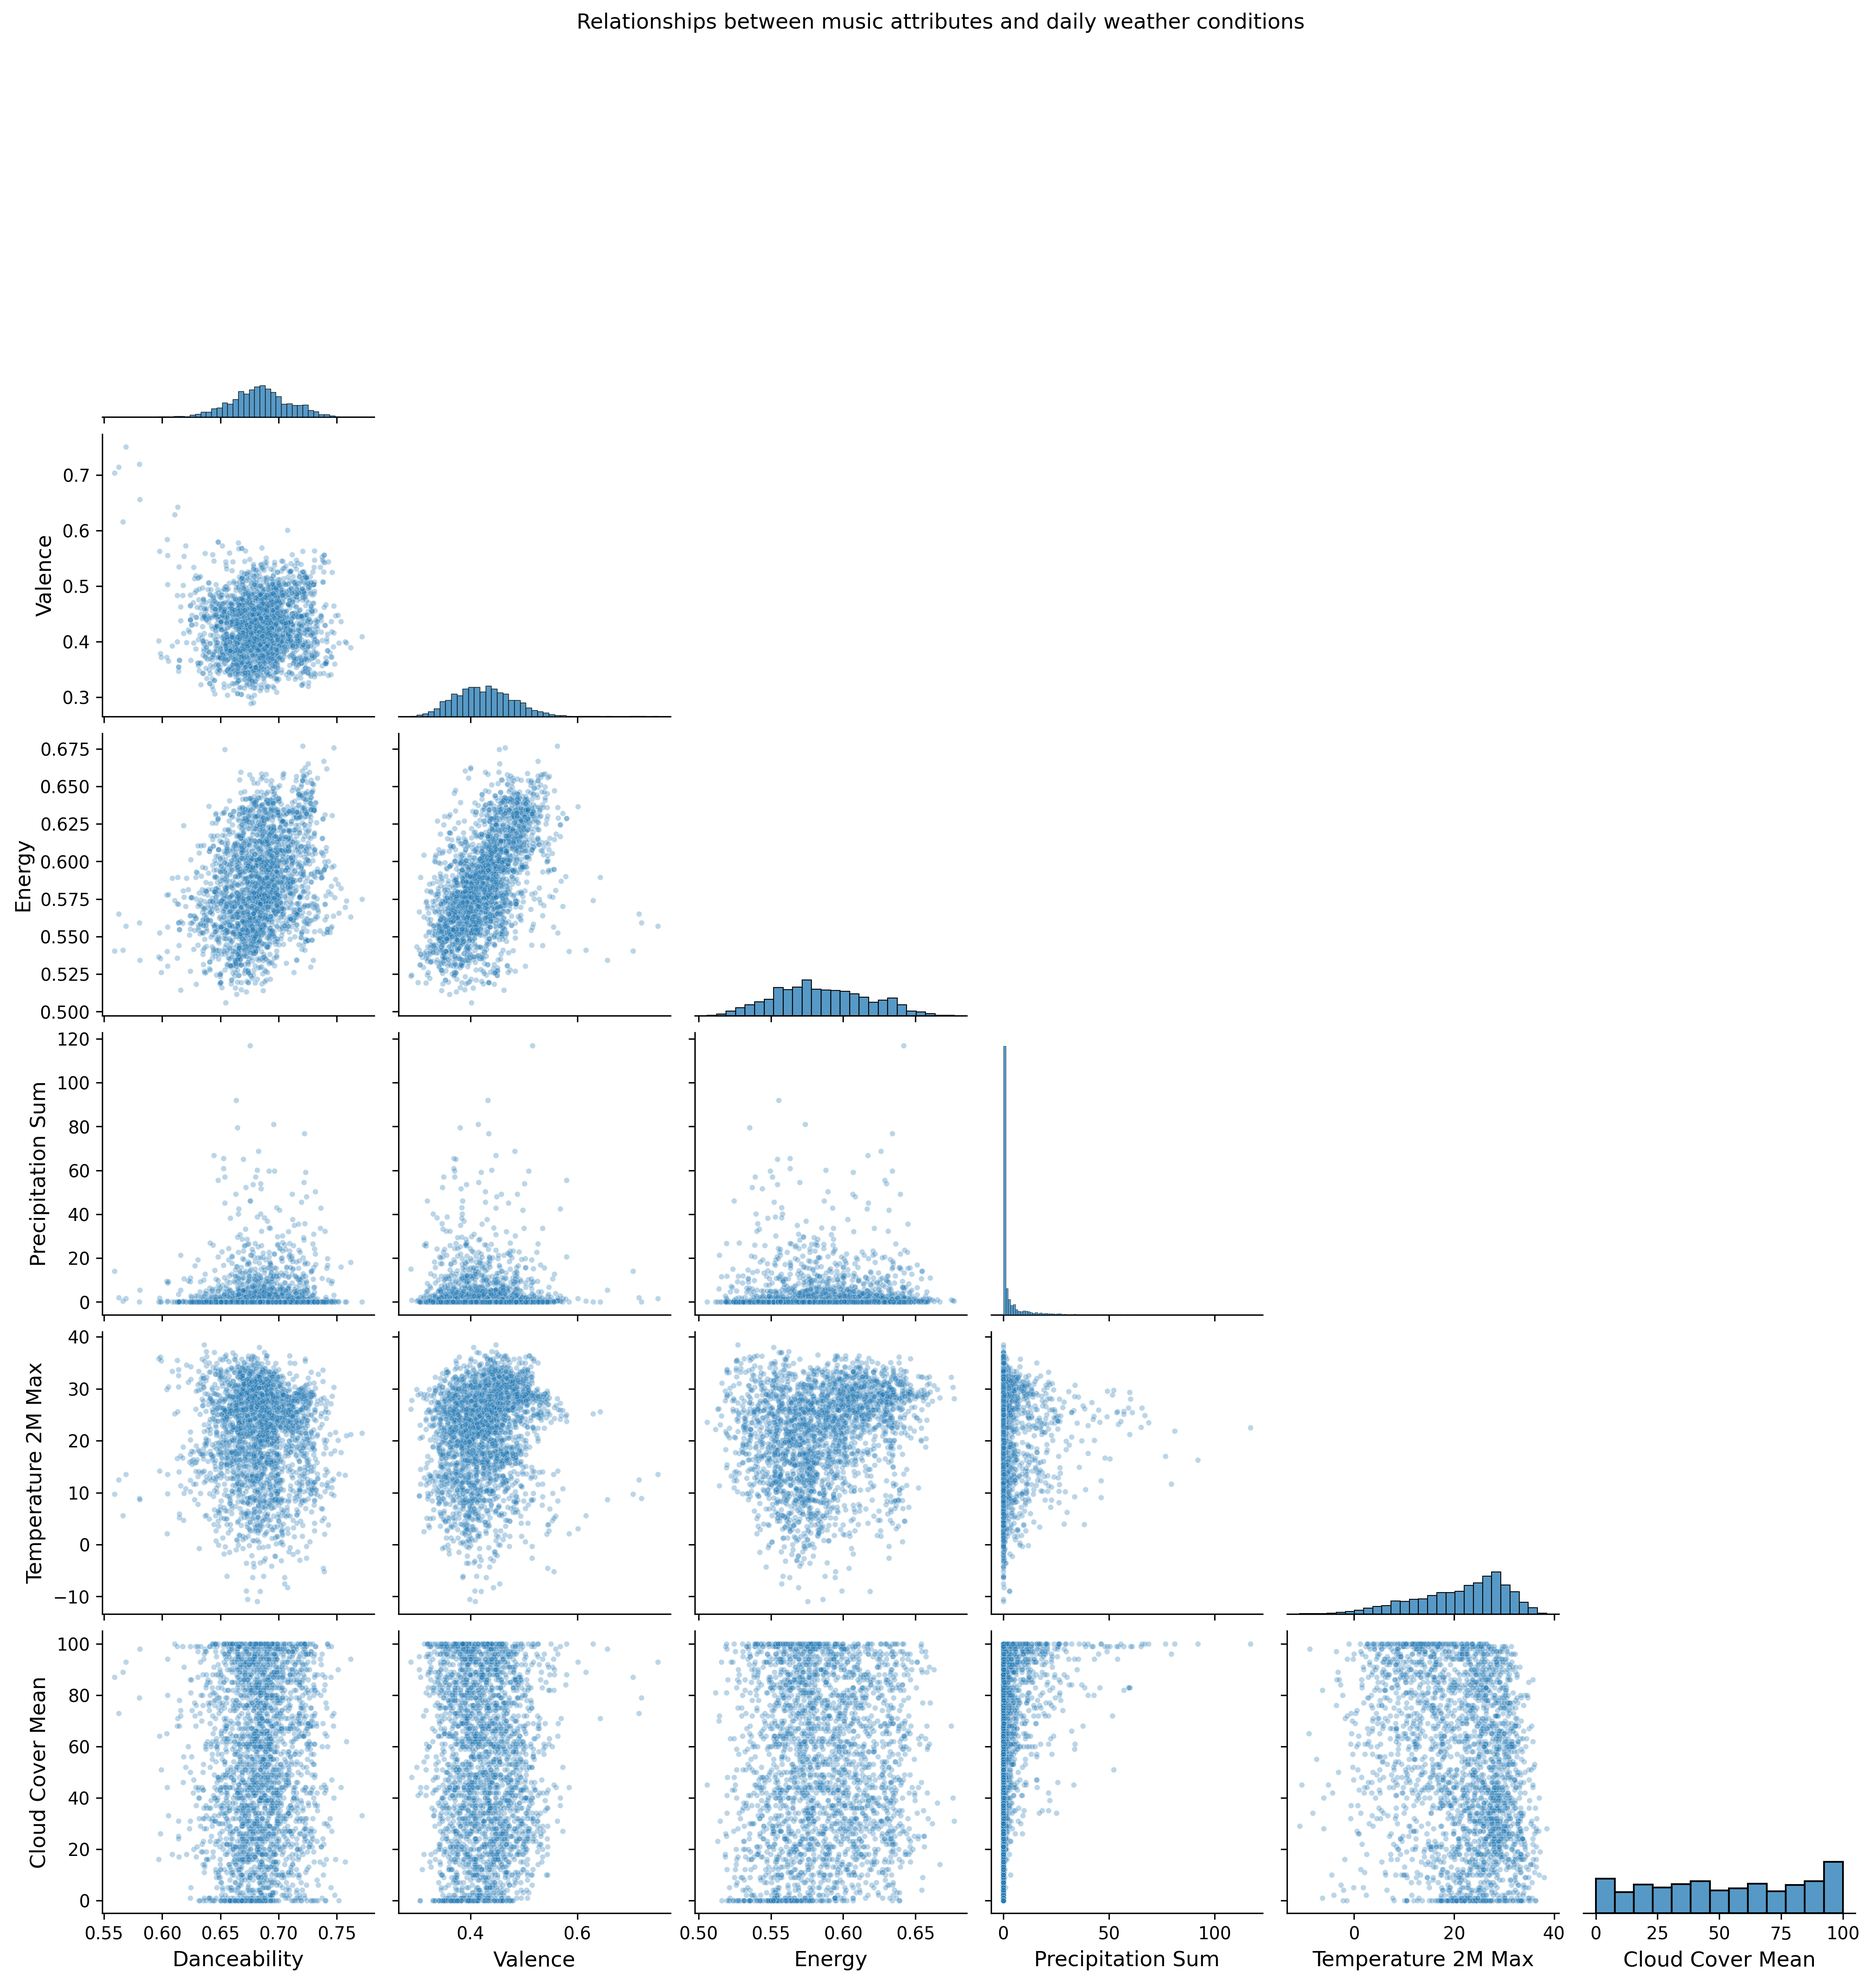
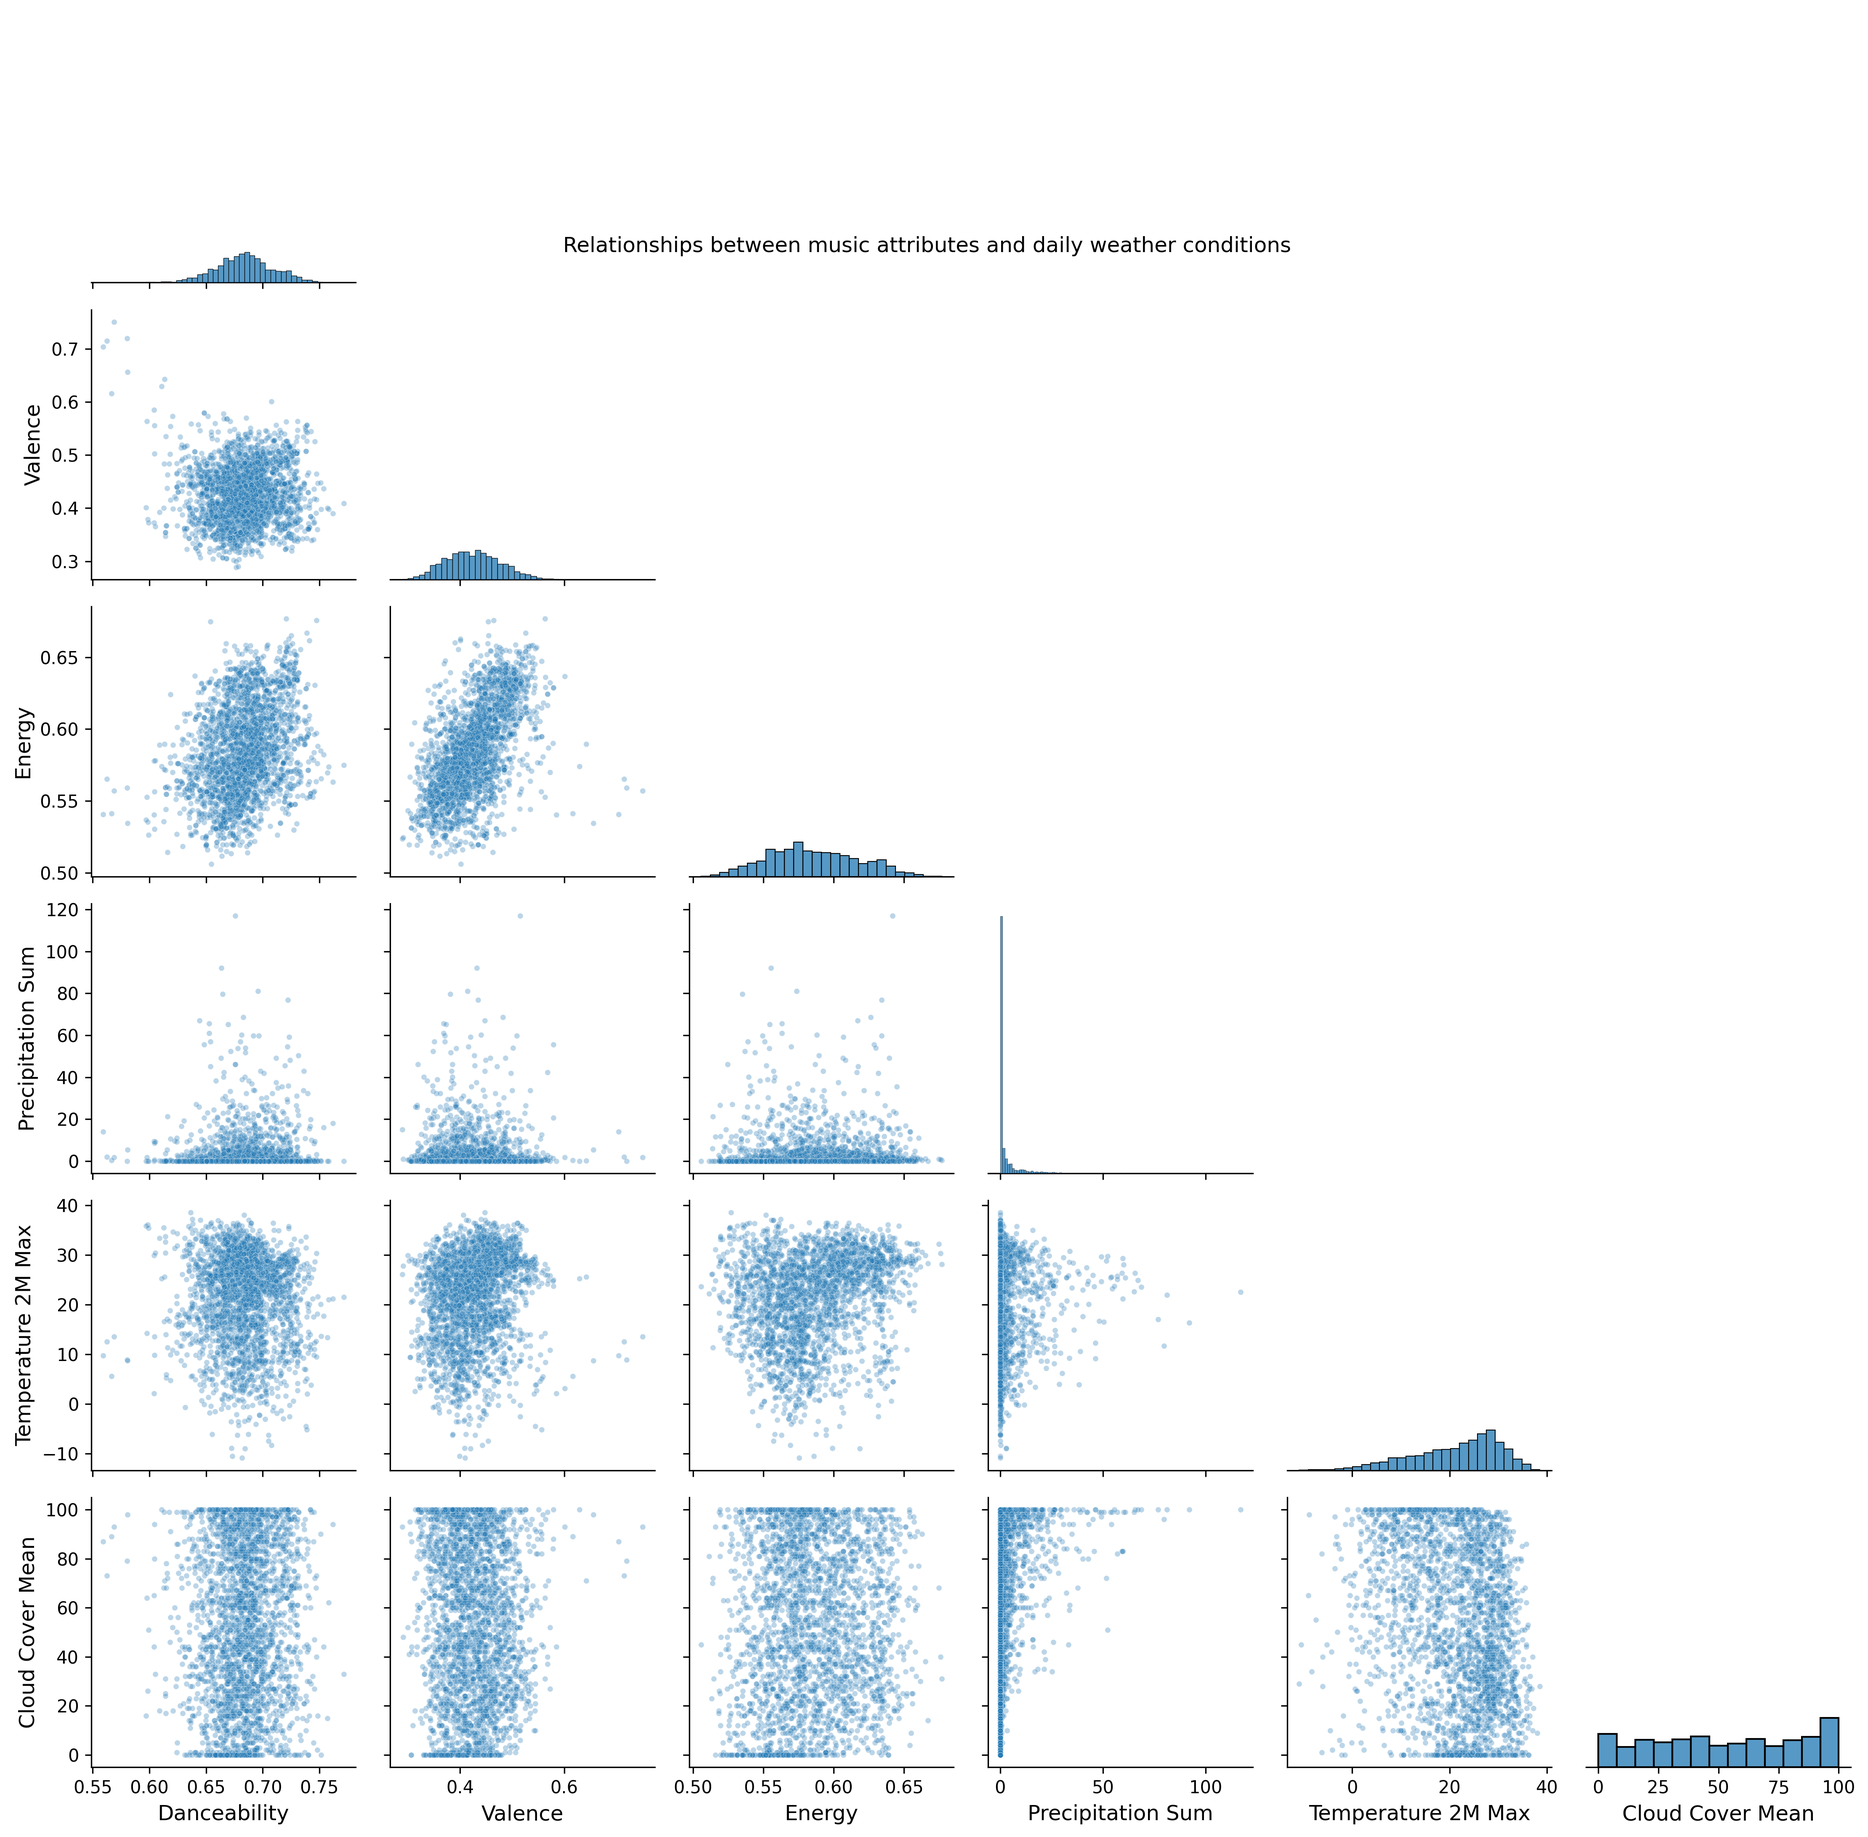
fix big plot title bug

diff --git a/music_weather_attribute_analysis.py b/music_weather_attribute_analysis.py
@@ -233,7 +233,12 @@ def run_music_weather_plots():
         corner=True,
         plot_kws={"alpha": 0.3, "s": 10},
     )
-    g.fig.suptitle("Relationships between music attributes and daily weather conditions", y=1.05)
+    g.fig.suptitle(
+        "Relationships between music attributes and daily weather conditions",
+        y=0.89,
+        fontsize=18
+    ) # move the title down, for some reason it wants to be way off the top
+    g.fig.tight_layout()
     save_plot("big_all_relationships_music_weather")
     plt.show()
 
